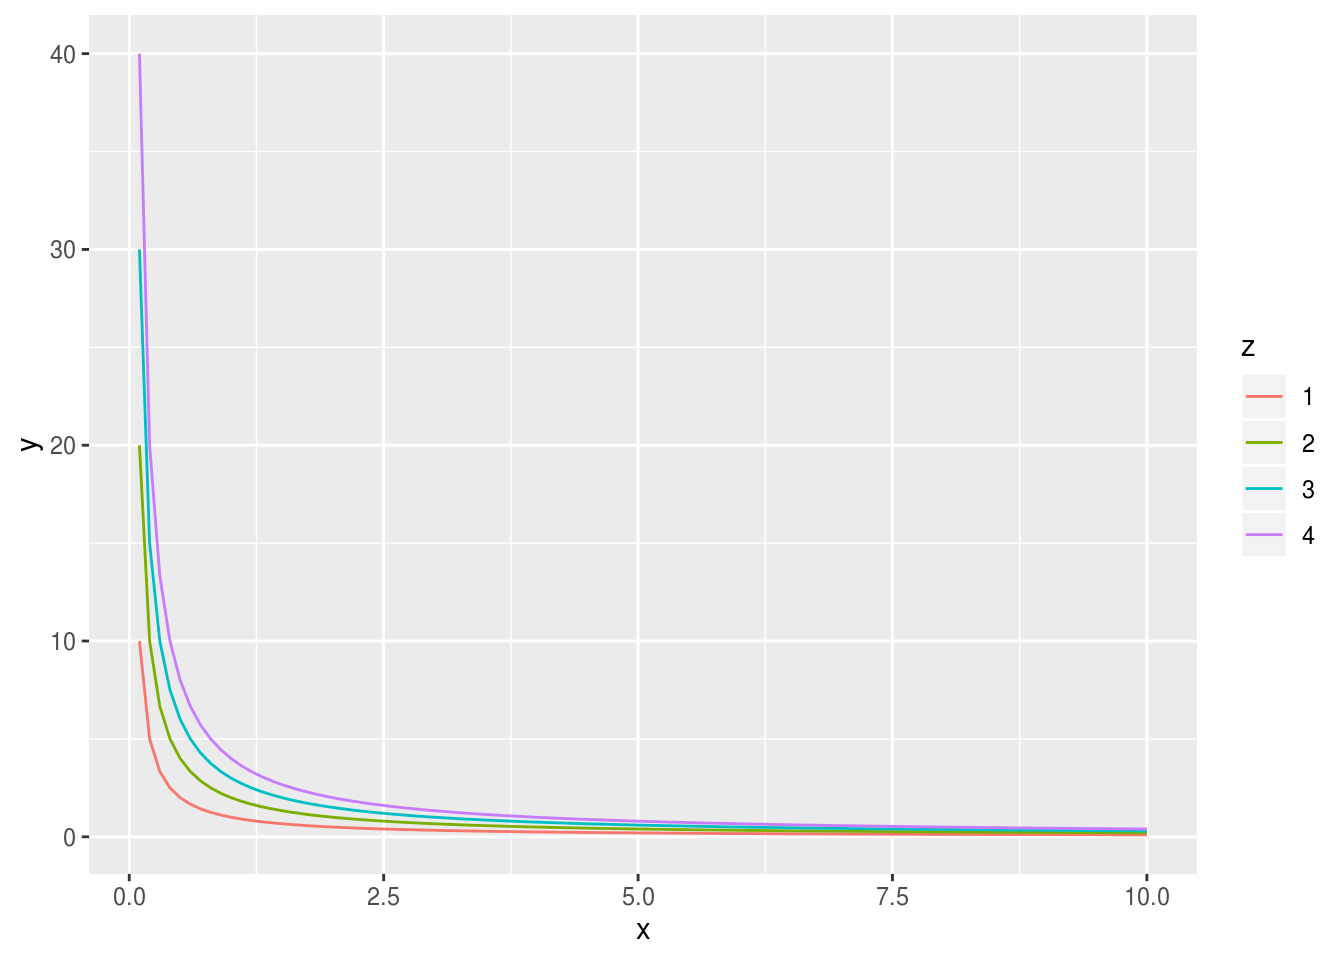
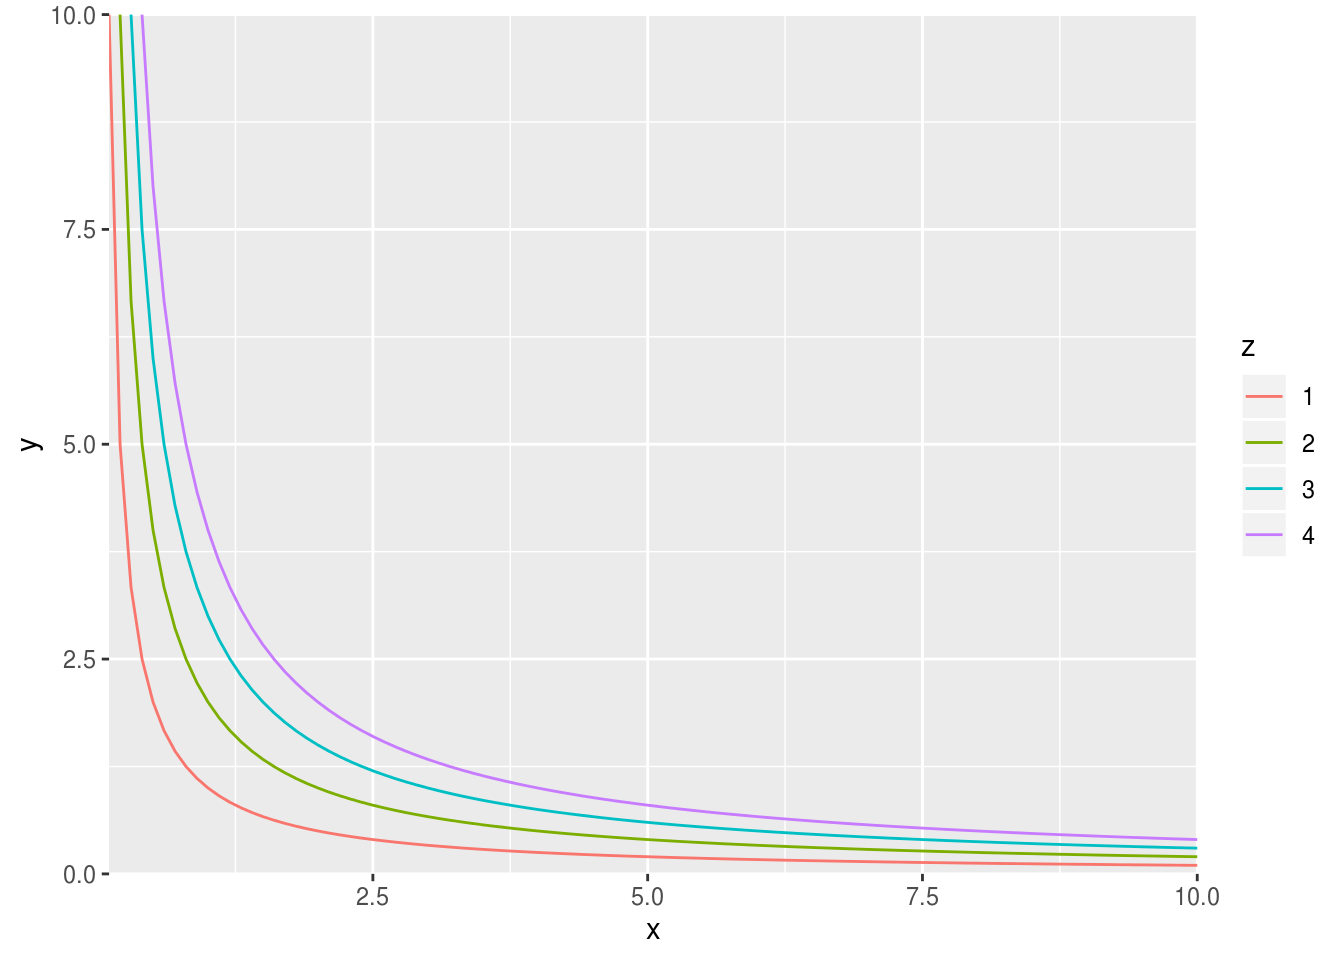
Update the book by travis

diff --git a/section-1.html b/section-1.html
@@ -210,7 +210,8 @@ code span.wa { color: #60a0b0; font-weight: bold; font-style: italic; } /* Warni
 <a class="sourceLine" id="cb4-6" data-line-number="6">) <span class="op">%&gt;%</span></a>
 <a class="sourceLine" id="cb4-7" data-line-number="7"><span class="st">  </span><span class="kw">transform</span>(<span class="dt">y =</span> z <span class="op">/</span><span class="st"> </span>x, <span class="dt">z =</span> <span class="kw">factor</span>(z)) <span class="op">%&gt;%</span></a>
 <a class="sourceLine" id="cb4-8" data-line-number="8"><span class="st">  </span><span class="kw">ggplot</span>() <span class="op">+</span></a>
-<a class="sourceLine" id="cb4-9" data-line-number="9"><span class="st">  </span><span class="kw">geom_line</span>(<span class="kw">aes</span>(x, y, <span class="dt">color =</span> z))</a></code></pre></div>
+<a class="sourceLine" id="cb4-9" data-line-number="9"><span class="st">  </span><span class="kw">geom_line</span>(<span class="kw">aes</span>(x, y, <span class="dt">color =</span> z)) <span class="op">+</span></a>
+<a class="sourceLine" id="cb4-10" data-line-number="10"><span class="st">  </span><span class="kw">coord_cartesian</span>(<span class="dt">ylim =</span> <span class="kw">c</span>(<span class="dv">0</span>, <span class="dv">10</span>), <span class="dt">expand =</span> F)</a></code></pre></div>
 <p><img src="btcookbook_files/figure-html/unnamed-chunk-3-1.png" width="672" /></p>
 <div class="sourceCode" id="cb5"><pre class="sourceCode r"><code class="sourceCode r"><a class="sourceLine" id="cb5-1" data-line-number="1"><span class="co"># Or</span></a>
 <a class="sourceLine" id="cb5-2" data-line-number="2">out &lt;-<span class="st"> </span><span class="kw">ggplot</span>(<span class="kw">data.frame</span>(<span class="dt">x =</span> <span class="kw">c</span>(<span class="dv">0</span>, <span class="dv">10</span>)), <span class="kw">aes</span>(x))</a>
